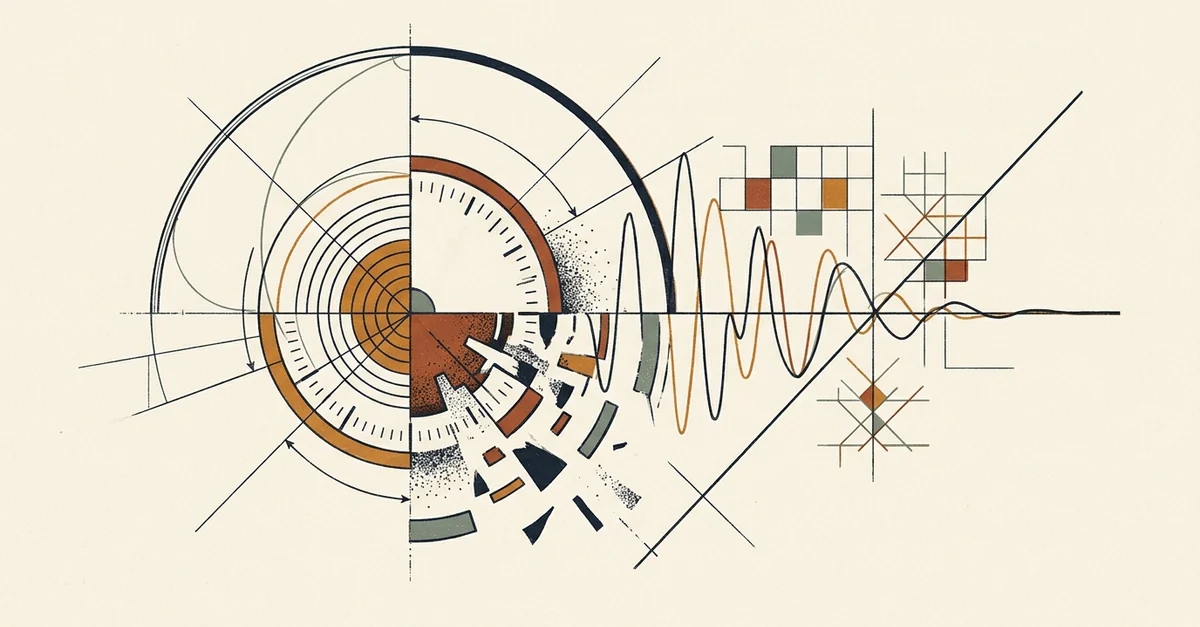
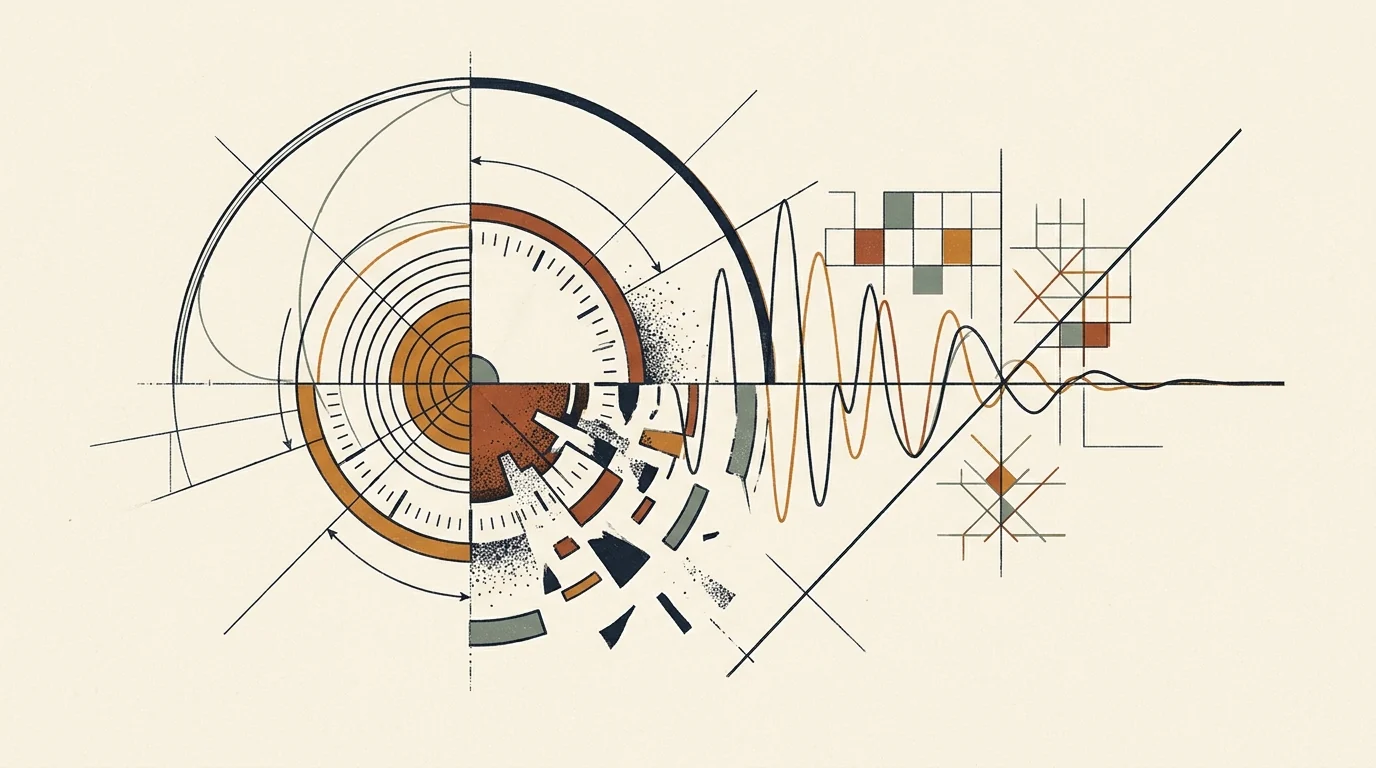
Preserve full native 1376x768 lithograph dimensions and uncropped CSS frames

diff --git a/src/styles/global.css b/src/styles/global.css
@@ -326,6 +326,18 @@ h1, h2, h3 {
 .editorial-image--featured img { aspect-ratio: 4 / 3; max-height: 440px; }
 .editorial-image--card { margin: 0; }
 .editorial-image--card img { aspect-ratio: 16 / 10; }
+.editorial-image--lithograph .editorial-image-frame {
+  background: #f8f4ec;
+}
+.editorial-image--lithograph img,
+.editorial-image--featured.editorial-image--lithograph img,
+.editorial-image--card.editorial-image--lithograph img,
+.editorial-image--article.editorial-image--lithograph img {
+  aspect-ratio: auto;
+  height: auto;
+  max-height: none;
+  object-fit: contain;
+}
 
 .empty-state { border: 1px dashed var(--line-strong); padding: 50px; background: var(--cream); }
 .empty-state h2 { max-width: 600px; margin: 18px 0 10px; font-size: 2.4rem; }
@@ -596,7 +608,7 @@ nav a { display: inline-flex; min-height: 44px; align-items: center; }
   .section-heading { display: block; }
   .section-caption { margin-top: 8px; }
   .editorial-image--featured { grid-row: 1; }
-  .editorial-image--featured img { min-height: 0; aspect-ratio: 1.55 / 1; }
+  .editorial-image--featured:not(.editorial-image--lithograph) img { min-height: 0; aspect-ratio: 1.55 / 1; }
   .about-band, .subscribe-card { grid-template-columns: 1fr; }
   .archive-section { padding-top: 6px; }
   .archive-heading { margin-bottom: 16px; }

diff --git a/agewell/images.py b/agewell/images.py
@@ -512,12 +512,12 @@ def generate_lithograph_plate(
 
     with Image.open(io.BytesIO(raw_image)) as source:
         source = ImageOps.exif_transpose(source).convert("RGB")
-        rendered = ImageOps.fit(source, (1200, 627), method=Image.Resampling.LANCZOS, centering=(0.5, 0.5))
+        width, height = source.size
         folder = public_root / "images" / "editions" / edition_id
         folder.mkdir(parents=True, exist_ok=True)
         filename = f"{article_slug}-lithograph.webp"
         target = folder / filename
-        rendered.save(target, "WEBP", quality=86, method=6)
+        source.save(target, "WEBP", quality=86, method=6)
 
     return PublishedImage(
         provider="Agewell Visual Desk",
@@ -527,8 +527,8 @@ def generate_lithograph_plate(
         creator="Agewell Brief Visual Desk",
         creator_url="",
         alt=f"Post-constructivist scientific lithograph illustrating {headline}",
-        width=1200,
-        height=627,
+        width=width,
+        height=height,
         avg_color="#f4efe4",
         review_status="vision-approved",
     )

diff --git a/content/posts/2026-11-18-spatial-mapping-reveals-heart-aging-concentrates-in-valves-and-blood-v-ba982aac.md b/content/posts/2026-11-18-spatial-mapping-reveals-heart-aging-concentrates-in-valves-and-blood-v-ba982aac.md
@@ -17,8 +17,8 @@ image_provider_id: "lithograph-ba982aac"
 image: "/images/editions/2026-11-18/spatial-mapping-reveals-heart-aging-concentrates-in-valves-and-blood-v-ba982aac-lithograph.webp"
 image_alt: "Post-constructivist scientific lithograph of a three-leaflet aortic valve and branching vessel overlaid with a spatial-transcriptomic grid showing dense inflammatory hotspots along the valve rings while the surrounding myocardium stays intact."
 image_caption: "Single-cell spatial transcriptomics locates cardiac aging and fibrotic remodeling within the aortic valve leaflets and vascular conduits rather than the surrounding myocardium."
-image_width: 1200
-image_height: 627
+image_width: 1376
+image_height: 768
 image_photographer: "Agewell Brief Visual Desk"
 image_review_status: "human-reviewed"
 image_avg_color: "#f4efe4"

diff --git a/content/posts/2026-11-17-centenarian-gut-microbes-yield-synthetic-bacteria-that-restore-youthfu-c17bd4d3.md b/content/posts/2026-11-17-centenarian-gut-microbes-yield-synthetic-bacteria-that-restore-youthfu-c17bd4d3.md
@@ -18,8 +18,8 @@ image_provider_id: "lithograph-c17bd4d3"
 image: "/images/editions/2026-11-17/centenarian-gut-microbes-yield-synthetic-bacteria-that-restore-youthfu-c17bd4d3-lithograph.webp"
 image_alt: "Post-constructivist scientific lithograph depicting modular gut bacilli within an intestinal villi lattice emitting small-molecule hexagonal trajectories across a central axis to wind a concentric metabolic clockwork and mitochondrion."
 image_caption: "Engineered gut bacteria replicate the small-molecule metabolite signaling of centenarian microbiomes to restore youthful mitochondrial and systemic metabolism."
-image_width: 1200
-image_height: 627
+image_width: 1376
+image_height: 768
 image_photographer: "Agewell Brief Visual Desk"
 image_review_status: "human-reviewed"
 image_avg_color: "#f4efe4"

diff --git a/content/posts/2026-11-17-targeted-pink-noise-amplifies-the-brain-s-nightly-fluid-flushing-waves-af92c462.md b/content/posts/2026-11-17-targeted-pink-noise-amplifies-the-brain-s-nightly-fluid-flushing-waves-af92c462.md
@@ -16,8 +16,8 @@ image_provider_id: "lithograph-af92c462"
 image: "/images/editions/2026-11-17/targeted-pink-noise-amplifies-the-brain-s-nightly-fluid-flushing-waves-af92c462-lithograph.webp"
 image_alt: "Post-constructivist scientific lithograph showing concentric acoustic pink-noise pulses phase-locking into a high-amplitude slow-wave cerebrospinal fluid curve that flushes particulate waste out of an abstract cranial hemisphere."
 image_caption: "Phase-locked pink-noise acoustic pulses entrain slow-wave neural oscillations to drive deeper cerebrospinal fluid clearance waves across the sleeping brain."
-image_width: 1200
-image_height: 627
+image_width: 1376
+image_height: 768
 image_photographer: "Agewell Brief Visual Desk"
 image_review_status: "human-reviewed"
 image_avg_color: "#f4efe4"

diff --git a/content/posts/2026-11-18-why-weight-loss-drugs-prevent-cognitive-decline-yet-fail-against-alzhe-607a7347.md b/content/posts/2026-11-18-why-weight-loss-drugs-prevent-cognitive-decline-yet-fail-against-alzhe-607a7347.md
@@ -18,8 +18,8 @@ image_provider_id: "lithograph-607a7347"
 image: "/images/editions/2026-11-18/why-weight-loss-drugs-prevent-cognitive-decline-yet-fail-against-alzhe-607a7347-lithograph.webp"
 image_alt: "Post-constructivist scientific lithograph showing vascular metabolic signaling vectors crossing a blood-brain barrier arc before being deflected by a dense blockade of Alzheimer's plaques and tangles."
 image_caption: "Incretin pathways protect upstream cerebral vasculature before disease onset, yet cannot dismantle the structural blockade of established Alzheimer's pathology."
-image_width: 1200
-image_height: 627
+image_width: 1376
+image_height: 768
 image_photographer: "Agewell Brief Visual Desk"
 image_review_status: "human-reviewed"
 image_avg_color: "#f4efe4"

diff --git a/content/posts/2026-11-18-alzheimer-s-disease-erodes-the-brain-s-master-metabolic-and-circadian--7d1e398f.md b/content/posts/2026-11-18-alzheimer-s-disease-erodes-the-brain-s-master-metabolic-and-circadian--7d1e398f.md
@@ -19,8 +19,8 @@ image_provider_id: "lithograph-7d1e398f"
 image: "/images/editions/2026-11-18/alzheimer-s-disease-erodes-the-brain-s-master-metabolic-and-circadian-7d1e398f-lithograph.webp"
 image_alt: "Post-constructivist scientific lithograph showing a concentric hypothalamic circadian clock fracturing into damped oscillatory waveforms and transcriptional grid modules."
 image_caption: "Subcortical circadian and metabolic pacemakers in the hypothalamus lose structural volume and transcriptional rhythm before cortical memory symptoms surface."
-image_width: 1200
-image_height: 627
+image_width: 1376
+image_height: 768
 image_photographer: "Agewell Brief Visual Desk"
 image_review_status: "human-reviewed"
 image_avg_color: "#f4efe4"

diff --git a/content/posts/2026-08-03-cell-shedding-what-senescence-research-can-and-cannot-say.md b/content/posts/2026-08-03-cell-shedding-what-senescence-research-can-and-cannot-say.md
@@ -15,6 +15,8 @@ image_alt: "Post-constructivist scientific lithograph showing a fractured senesc
 image_caption: "Cyclical senolytic and autophagic clearance quiets inflammatory SASP signaling and recycles stalled cellular structures into renewed tissue architecture."
 image_photographer: "Agewell Brief Visual Desk"
 image_provider: "Agewell Visual Desk"
+image_width: 1376
+image_height: 768
 image_review_status: "human-reviewed"
 image_avg_color: "#f4efe4"
 topics: ['cellular senescence', 'longevity', 'metabolic health', 'mobility', 'sleep health']

diff --git a/content/posts/2026-08-03-dark-mirror-what-a-mineral-clearing-framework-is-trying-to-do.md b/content/posts/2026-08-03-dark-mirror-what-a-mineral-clearing-framework-is-trying-to-do.md
@@ -15,6 +15,8 @@ image_alt: "Post-constructivist scientific lithograph of an octagonal dark-slate
 image_caption: "Crystalline aluminosilicate and humic binding lattices sequester mobilized metal ions inside stable geometric cages to prevent tissue redistribution."
 image_photographer: "Agewell Brief Visual Desk"
 image_provider: "Agewell Visual Desk"
+image_width: 1376
+image_height: 768
 image_review_status: "human-reviewed"
 image_avg_color: "#f4efe4"
 topics: ['brain health', 'consumer safety', 'detoxification', 'gut health', 'mobility']

diff --git a/content/posts/2026-08-03-luminous-mind-brain-health-needs-more-than-a-pill.md b/content/posts/2026-08-03-luminous-mind-brain-health-needs-more-than-a-pill.md
@@ -15,6 +15,8 @@ image_alt: "Post-constructivist scientific lithograph showing five systemic trac
 image_caption: "Cognitive resilience emerges when sleep oscillations, vascular perfusion, stress equilibrium, movement, and synaptic nutrition lock into whole-system coherence."
 image_photographer: "Agewell Brief Visual Desk"
 image_provider: "Agewell Visual Desk"
+image_width: 1376
+image_height: 768
 image_review_status: "human-reviewed"
 image_avg_color: "#f4efe4"
 topics: ['brain health', 'metabolic health', 'mobility', 'sleep health']

diff --git a/content/posts/2026-08-03-inner-garden-gut-health-as-an-ecology.md b/content/posts/2026-08-03-inner-garden-gut-health-as-an-ecology.md
@@ -15,6 +15,8 @@ image_alt: "Post-constructivist scientific lithograph of interlocking epithelial
 image_caption: "Mucosal tight-junction architecture supports a diverse microbial ecology that signals directly to the brain along the ascending vagal axis."
 image_photographer: "Agewell Brief Visual Desk"
 image_provider: "Agewell Visual Desk"
+image_width: 1376
+image_height: 768
 image_review_status: "human-reviewed"
 image_avg_color: "#f4efe4"
 topics: ['brain health', 'gut health', 'metabolic health', 'mobility', 'sleep health']

diff --git a/content/posts/2026-08-03-higher-flame-metabolic-flexibility-and-the-fasting-question.md b/content/posts/2026-08-03-higher-flame-metabolic-flexibility-and-the-fasting-question.md
@@ -15,6 +15,8 @@ image_alt: "Post-constructivist scientific lithograph showing a hexagonal glucos
 image_caption: "Metabolic flexibility switches the mitochondrial Krebs turbine seamlessly between carbohydrate glycolysis and fatty-acid ketone oxidation."
 image_photographer: "Agewell Brief Visual Desk"
 image_provider: "Agewell Visual Desk"
+image_width: 1376
+image_height: 768
 image_review_status: "human-reviewed"
 image_avg_color: "#f4efe4"
 topics: ['brain health', 'metabolic health', 'sleep health']
